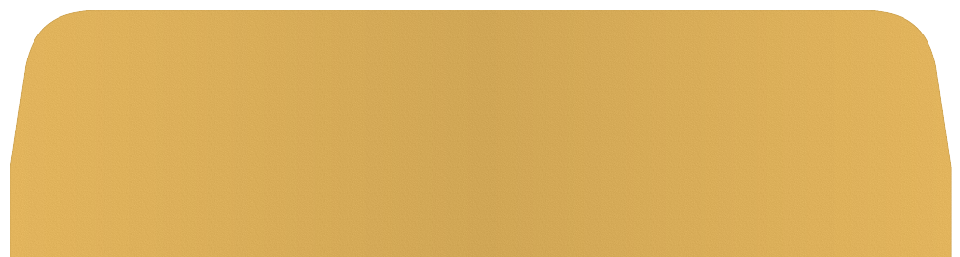
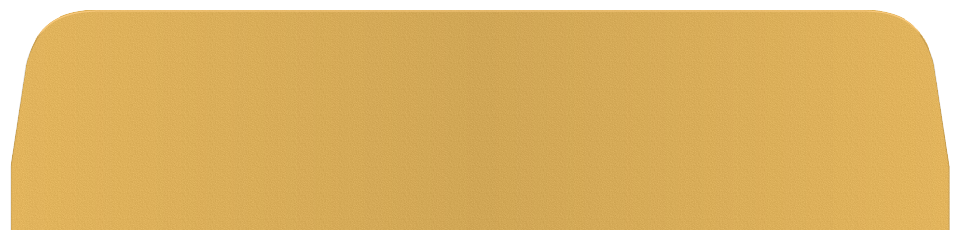
make manilla PNGs pixel perfect & readjust for new bottom div

diff --git a/app/assets/stylesheets/main.css b/app/assets/stylesheets/main.css
@@ -91,13 +91,13 @@ ul.brief_list li{
 }
 #manilla_opening {
 	background-image: url('manilla_f.png');
-	height: 257px;
+	height: 230px;
 	z-index: 1;
 }
 #manilla_flap {
 	background-image: url('manilla_b.png');
 	z-index: -1;
-	height: 257px;
+	height: 230px;
 }
 #manilla {
 	background-image: url('manilla_splice.png');
